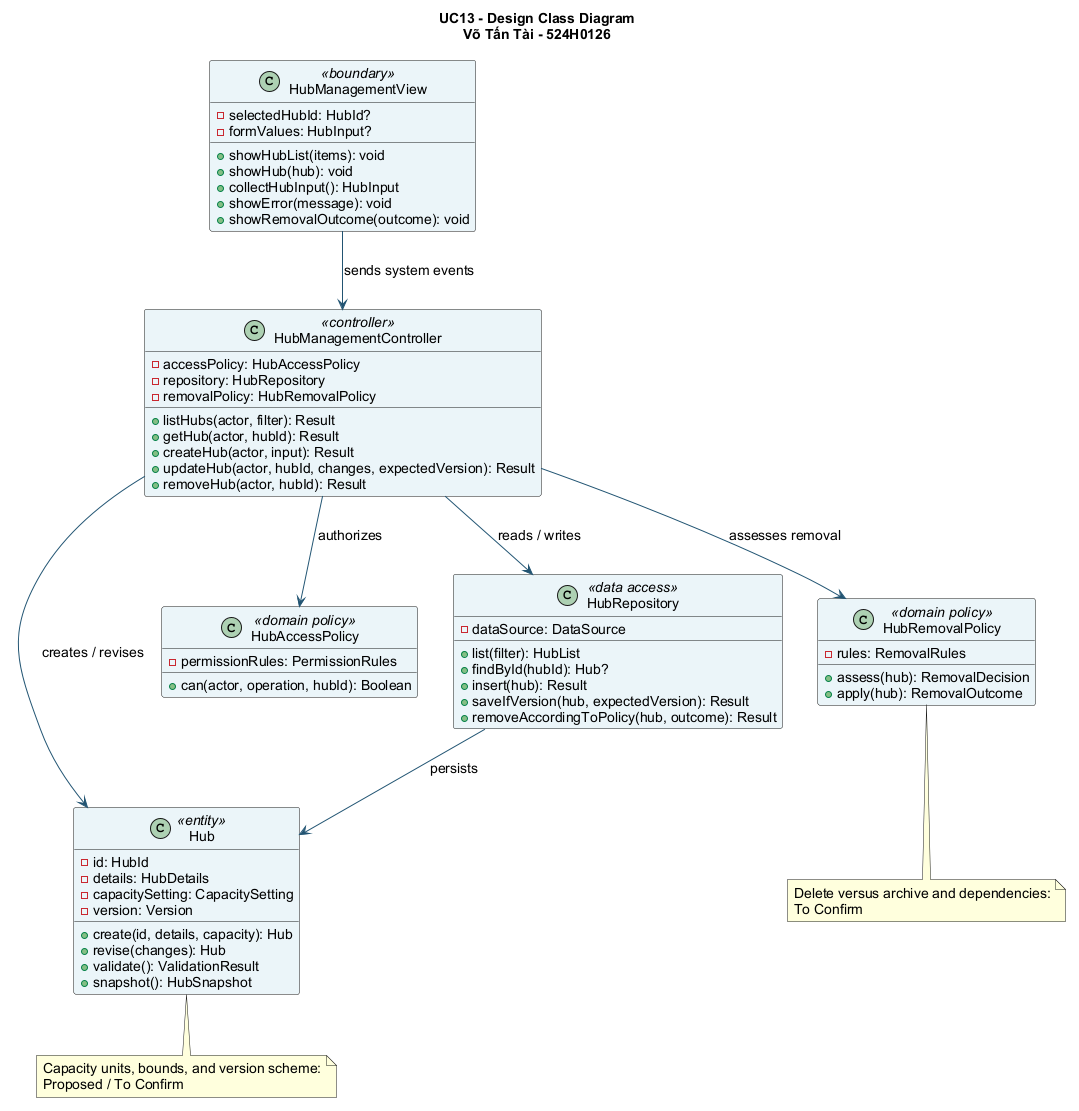
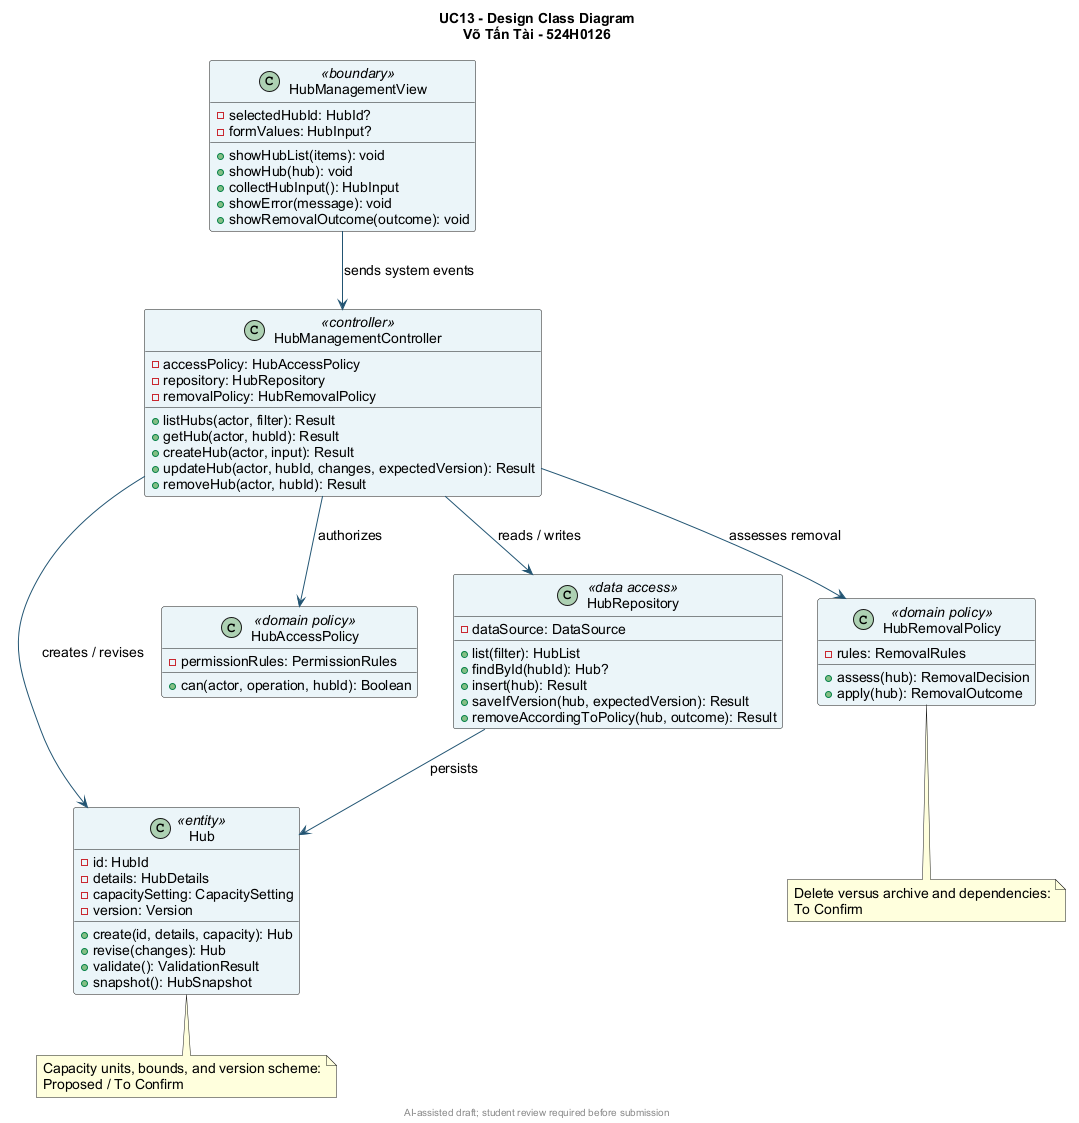
docs(uc13): align analysis and design with official RAD template

diff --git a/docs/sprint1/UC13_ManageHubs/UC13.md b/docs/sprint1/UC13_ManageHubs/UC13.md
@@ -2,17 +2,18 @@
 
 **Author:** Võ Tấn Tài — 524H0126  
 **Status:** Analysis draft; business decisions marked **Proposed / To Confirm**.
+**AI use:** AI-assisted draft; student review is required before submission. See the Team Workbook AI Usage Log.
 
 ## Scope and evidence
 
-The repository contains a placeholder for UC13. The Team F4 proposal and both workbooks instead assign **UC14 — Manage brands and menu items** to this author. The original SaigonBite Case Study, Final Project Requirements, and RAD Report Template were not available in the audited repository or supplied files. Therefore, UC13's identifier, ownership, actor permissions, capacity semantics, and deletion policy require team/client confirmation before this draft becomes a baseline. The presentation mentions hub management and overloaded hubs, but does not specify their CRUD rules.
+The official [Case Study](https://drive.google.com/drive/folders/14cJnJ9_AhfFeWIxvzuRefNueToF5RyNF) states that administrators maintain hubs, each hub has limited kitchen capacity, and a busy hub stops taking new orders while customers are encouraged to use quieter hubs. The 03 November 2026 Final Project Requirements list **UC13 — Manage hubs and kitchen capacity** as an Admin CRUD candidate. However, Team F4's Part 1 proposal and existing workbook assigned **UC14 — Manage brands and menu items** to this author. The team must confirm the ownership change. The Case Study does not define capacity units/thresholds, operation-level permissions or deletion policy; those details remain **To Confirm**.
 
 ## Fully developed use case description
 
 | Field | Description |
 |---|---|
 | Goal | Maintain hub records and their kitchen capacity settings so authorized staff can inspect and manage the information used by hub operations. |
-| Primary actor | **Proposed / To Confirm:** Admin. The source material mentions admins managing system information but does not explicitly assign UC13 permissions. |
+| Primary actor | Admin, as identified in the official Final Project Requirements. Operation-level permissions remain **To Confirm**. |
 | Trigger | An authorized user selects hub and capacity management. |
 | Stakeholders | Admin needs accurate hub data; Kitchen Staff need a usable operational capacity setting; Customers and Managers depend on reliable hub information and workload reporting. |
 | Preconditions | The actor is authenticated and authorized for the requested operation (**Proposed / To Confirm**). For read, update, or delete, the target hub exists. The definition and unit of kitchen capacity are **To Confirm**. |
@@ -50,12 +51,12 @@ The exact validation thresholds and uniqueness rules in step 4 are **To Confirm*
 
 | ID | Rule or decision | Status |
 |---|---|---|
-| BR13-1 | Only an authorized role may perform each hub operation. The actor and operation-level permission matrix require confirmation. | Proposed / To Confirm |
+| BR13-1 | Admin is the official UC13 candidate actor. Each hub operation requires authorization; the operation-level permission matrix requires confirmation. | Actor confirmed; permissions To Confirm |
 | BR13-2 | A capacity setting must be validated before Create or Update. Its unit, bounds, effective time, and relation to current workload require confirmation. | Proposed / To Confirm |
 | BR13-3 | A hub identifier must distinguish records; the identifier source and other uniqueness constraints require confirmation. | Proposed / To Confirm |
 | BR13-4 | Delete must follow a documented retention and dependency policy. No deletion mode is assumed here. | To Confirm |
-| BR13-5 | Whether an overloaded hub triggers a suggestion, reassignment, or order block belongs to a separate ordering/routing decision; Client Q&A Q1 and Assumption A-01 remain unconfirmed. | To Confirm |
+| BR13-5 | The Case Study says a busy hub stops taking new orders and customers are encouraged to choose quieter hubs. UC13 maintains the capacity settings; the busy threshold, incentive and routing interaction remain outside this use case and **To Confirm**. | Case Study fact; detail To Confirm |
 
 ## Traceability and boundary
 
-The Team Workbook's Q1/A-01 addresses customer approval of an alternative hub and remains unconfirmed. UC13 maintains hub/capacity information; it does not implement customer rerouting, order acceptance, or workload calculation. The UC13/UC14 ownership conflict must be resolved before final integration.
+The Team Workbook's Q1/A-01 addresses customer approval of an alternative hub and remains unconfirmed. UC13 maintains hub/capacity information; it does not implement customer rerouting, order acceptance, or workload calculation. The UC13/UC14 ownership conflict must be resolved before final integration. The [Hub state machine](diagrams/13-hub-state.puml) traces the Create/Read/Update/Delete postconditions; archive versus hard delete is explicitly proposed.

diff --git a/docs/sprint1/UC13_ManageHubs/UC13-design.md b/docs/sprint1/UC13_ManageHubs/UC13-design.md
@@ -1,7 +1,8 @@
 # UC13 — Design Classes, CRC Cards, and CRUD Verification
 
 **Author:** Võ Tấn Tài — 524H0126
-**Status:** Proposed design aligned with [UC13 specification](UC13.md). Decisions labelled **To Confirm** are not approved business rules.
+**Status:** Proposed design aligned with [UC13 specification](UC13.md). The official Case Study and Final Project Requirements confirm the Admin/Hub management scope, while decisions labelled **To Confirm** are not approved business rules.
+**AI use:** AI-assisted draft; student review is required before submission. See the Team Workbook AI Usage Log.
 
 ## Design classes
 
@@ -51,3 +52,7 @@ The workbook's CRUD Check has a candidate Hub row and reports a **Gap** for Dele
 - UC13 specification, Activity, SSD and class operations use the same four verbs: Create, Read, Update, Delete (represented by `removeHub` pending policy).
 - All write paths validate authorization and input; Delete also evaluates confirmed dependencies.
 - No class computes overload, reroutes customer orders or changes `Order`; those behaviours require separate scope confirmation.
+
+## Sprint 1 report template design evidence
+
+The [OOD sequence diagram](diagrams/13-ood-sequence.puml) traces the authorized CRUD paths through the View, Controller, policies, Hub and Repository. It distinguishes validation, missing record, conflict, blocked removal and write errors. The [final integrated design class diagram](diagrams/13-final-design-class.puml) refines this class inventory with `HubOperationResult` so those outcomes have an explicit interface. The extra result type is a proposed design value object, not an approved business entity. Both sources have adjacent PNGs. The [Hub record state machine](diagrams/13-hub-state.puml) links the UC13 postconditions to recorded, archived or removed outcomes; the latter two are conditional on a policy decision.
